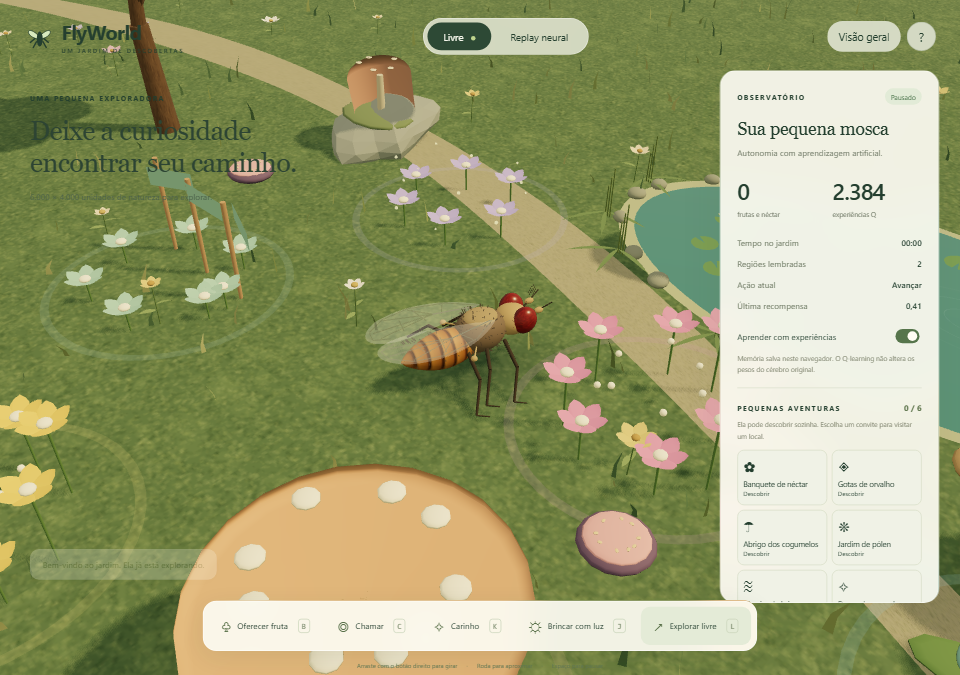
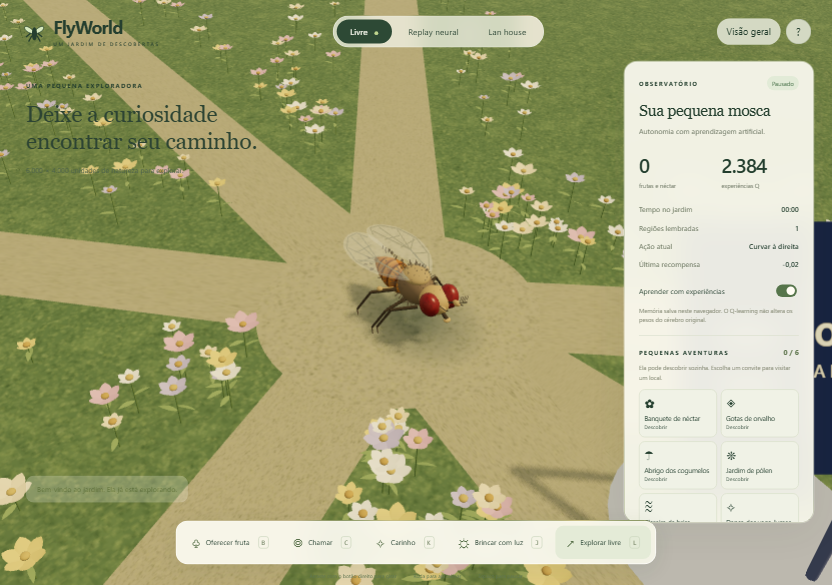
docs(lanhouse): publicar guias, imagens e evidências de aprendizagem

diff --git a/docs/superpowers/plans/2026-10-22-jardim-lanhouse-pong.md b/docs/superpowers/plans/2026-10-22-jardim-lanhouse-pong.md
@@ -1,0 +1,69 @@
+# Jardim e lan house — Implementation Plan
+
+> For agentic workers: use superpowers:executing-plans task by task. Execução nativa nesta sessão, conforme autorização do usuário.
+
+**Goal:** Publicar o jardim reorganizado e uma lan house com Pong demonstrável, treinável e avaliável.
+**Architecture:** Layout determinístico compartilhado; motor/agente/avaliação Pong puros; duas cenas no mesmo renderizador; integração UI isolada em um controlador da lan house.
+**Tech Stack:** Three.js, JavaScript ESM, Vite, Node test, Playwright, Vercel.
+**Spec:** ../specs/2026-10-22-jardim-lanhouse-pong-design.md
+
+## Global Constraints
+Mundo 6000 × 4000; seis estações com distância mínima 600; jogo de uma raquete contra parede, episódios de 30 segundos; recompensa +1 por devolução, -1 por perda. Avaliação de 100 episódios por política, sem explorar ou modificar pesos. Memória Pong independente e versionada; não alterar Brian2 ou replay. Um renderizador, um RAF; treino parado em aba oculta e no jardim.
+
+## Review Focus
+- Memória antiga: preservar Q e descobertas, invalidar coordenadas incompatíveis (tarefa 1).
+- Colisão rápida: subpassos impedem atravessar a raquete (tarefa 2).
+- Avaliação cancelada: sem resultados completos falsos ou mutação da política (tarefa 3).
+- Teclas/touch ao trocar mapas: limpar entrada e pausar treino (tarefa 4).
+- Falha de armazenamento: sessão continua e exportação permanece disponível (tarefa 4).
+
+### Task 1 — Layout e mosca
+Files: src/layout.js, layout.test.js, experiences.js, scenery.js, garden.js, fly-model.js, main.js.
+Interfaces: createLayout() -> world com regions, paths, sites, spawn, portal; pathDistance(world,x,z); migrateGardenMemory(memory,version).
+- [x] Testar seis estações seguras, separação >=600, rotas desde spawn e migração preservando Q.
+- [x] Implementar layout com corredores livres, bosques e grupos de comida; física/render/mapa usam os mesmos caminhos.
+- [x] Refinar postura e proporções; preservar seis pernas e duas asas.
+- [x] Rodar npm test e commit.
+
+### Task 2 — Pong e aprendizagem
+Files: src/pong.js, pong.test.js.
+Interfaces: Pong(seed).step(action,dt) -> eventos/reward/done; PongAgent(memory).act(game,{explore,rng}), demonstrate(state,action), update(...), snapshot().
+- [x] Testar rebotes, perdas, limite 30s, demonstrações, Q updates e memória inválida.
+- [x] Implementar passo fixo, três ações, estados discretizados sem previsão futura e preferência demonstrada apenas onde não há Q treinado.
+- [x] Rodar npm test e commit.
+
+### Task 3 — Avaliação reproduzível
+Files: src/pong-evaluation.js, pong.test.js.
+Interfaces: Evaluation(agent,100).advance(budget), cancel(), result.
+- [x] Testar saques iguais, 100 episódios de cada política, cancelamento e checkpoint inalterado.
+- [x] Implementar avaliação incremental, aleatória e política congelada; médias de devoluções/duração e conclusão explícita.
+- [x] Medir política inicial e treinada, registrar resultados reais, sem promessa de melhoria.
+
+### Task 4 — Cena e controlador da lan house
+Files: src/lanhouse-scene.js, src/lanhouse.js, index.html, style.css, main.js, garden.js.
+Interfaces: LanHouse(garden).tick(dt), render(time), setActive(bool), snapshot(), resize().
+- [x] Montar sala 3D e monitor com canvas compartilhado com a tela ampliada; mesma mosca e renderizador.
+- [x] Integrar demonstrar, treinar, acelerar, avaliar/cancelar, pausa, teclado/toque, exportar e reset confirmado.
+- [x] Preservar sessão do jardim e desligar controles ao trocar; falha localStorage tratada.
+- [x] Testar navegador: transições, ausência de treino oculto, replay, mobile, reload e erros de renderização.
+
+### Task 5 — Revisão e publicação
+Files: testes de navegação, docs, README, evidências.
+- [x] npm test, npm run build, inspeção de imagens desktop/mobile e auditoria da especificação.
+- [x] Registrar resultados de treinamento e instruções.
+- [ ] Commits personalizados, push GitHub, deploy Vercel, verificar URL pública e estado remoto.
+
+## Ledger de execução
+
+- Execução nativa autorizada pelo usuário; revisão final independente somente leitura realizada pelo agente review_lanhouse.
+- Tarefas 1–3: testes de layout e motor/agente/avaliação passaram; treino reproduzível de 15.000 episódios registrado em docs/PONG_EVALUATION.json.
+- Ruling: sementes pares para treino/demonstração e ímpares para avaliação — impede cruzamento em treino prolongado; relatório foi reexecutado nessa configuração.
+- Revisão encontrou e corrigiu: Espaço em botões, validação espacial, expiração de convite, reserva de saques e totais de treino no painel.
+- Testes de robustez passaram: armazenamento inválido e indisponível, exportação, foco de teclado, aba oculta simulada, troca com treino ativo, ajuda e cancelamento.
+- Ruling: o jardim conserva uma clareira inicial, com flores ao longo das rotas, mantendo as experiências espalhadas; a brisa aproxima a mosca do centro antes de aplicar deslocamento para não impedir a descoberta.
+- Tarefa 4: teste completo da lan house passou com demonstração real por toque, treino, avaliação sem mutação, sessão preservada e replay.
+- Tarefa 5: regressão das seis experiências concluída; aguardando somente a verificação final da publicação.
+
+- Regressão completa adventures-smoke.mjs passou com seis descobertas, entrega, persistência, replay e mobile. Otimização de tiles de 600 unidades revisada independentemente; liberação dos buffers preserva geometria compartilhada.
+
+- Última validação local: 23 testes unitários, build Vite, lanhouse-smoke (inclusive clique real no acesso 3D via visão geral), lanhouse-robustness (incluindo confirmação de reinício) e adventures-smoke passaram. Imagens de computador e celular inspecionadas.

diff --git a/docs/LANHOUSE_PONG.md b/docs/LANHOUSE_PONG.md
@@ -1,0 +1,36 @@
+# Lan da Mosca: ensinar Pong
+
+Na versão web, selecione **Lan house** no topo ou clique no acesso sinalizado na clareira inicial. A sala usa o mesmo renderizador e o mesmo modelo da mosca do jardim. O monitor 3D e o painel ampliado mostram a mesma partida.
+
+## Demonstrar
+
+Clique **1 · Demonstrar**. Use as setas para cima/baixo ou mantenha os botões de toque pressionados. Cada decisão registra o estado observado e sua ação. Esses exemplos orientam estados ainda não aprendidos; não contam como atualizações por recompensa. Espaço pausa quando o foco estiver no cenário.
+
+## Treinar
+
+Clique **2 · Treinar**. A mosca controla a raquete usando Q-learning e exploração. Cada devolução rende +1, cada perda −1. As partidas terminam ao perder a bola ou após 30 segundos, sem bônus pelo limite de tempo. O seletor acelera a simulação, limitado pelo orçamento de trabalho do navegador; “até 1000×” não garante essa velocidade em todos os aparelhos.
+
+O painel mostra partidas, exemplos, atualizações Q, totais de devoluções e perdas, média das últimas 100 partidas e histórico. Trocar para o jardim, ocultar a aba, pausar ou abrir a ajuda interrompe os passos de jogo/treino.
+
+## Avaliar
+
+Clique **3 · Avaliar sem aprender**. A política fica congelada e sem exploração e é comparada a ações aleatórias: 100 episódios de cada política, com os mesmos saques. Os saques de avaliação usam sementes ímpares reservadas; treino e demonstrações usam sementes pares. É possível cancelar, sem apresentar a parte executada como avaliação completa.
+
+A avaliação não atualiza Q, demonstrações ou estatísticas de treino. O texto mostra as devoluções e o tempo médio realmente medidos; não garante que qualquer agente supere a referência após um número fixo de partidas.
+
+## Memória
+
+A chave de armazenamento Pong é `flyworld-pong-v1`, separada do jardim. Use **Exportar memória Pong** para obter o checkpoint. **Reiniciar Pong** exige confirmação e não apaga o jardim. Memórias inválidas são ignoradas; se o armazenamento falhar, a sessão continua e a exportação fica disponível.
+
+A troca entre mapas preserva a posição e a sessão do jardim. A memória espacial do jardim anterior é renovada na migração do layout; a política, os contadores e as descobertas são preservados.
+
+## Experimento reproduzível
+
+```powershell
+cd web
+node benchmark-pong.mjs
+```
+
+O script começa com uma política nova, treina 15.000 episódios (semente base 17) e compara antes/depois com a mesma sequência reservada de 100 saques. O resultado completo está em [PONG_EVALUATION.json](PONG_EVALUATION.json). Na execução registrada: política treinada **2,36 devoluções por episódio**, referência aleatória **0,39**, sem demonstrações humanas. A política inicial marcou 0,40; essa diferença pequena isolada não constitui evidência de aprendizagem. O ganho observado após treino é deste experimento, não uma garantia para toda sessão.
+
+Nenhum checkpoint treinado é instalado silenciosamente no navegador: a memória nova de Pong começa sem aprendizagem específica. Esta é uma habilidade de um agente artificial; Brian2 e o conectoma biológico não controlam o Pong nesta versão.

diff --git a/README.md b/README.md
@@ -52,9 +52,25 @@ Na versão web:
 
 A memória pertence ao navegador utilizado. Limpar os dados do site remove esse progresso; use **Exportar memória**, na janela de informações, para guardar uma cópia.
 
+## 🖥 Lan da Mosca — ensine uma nova habilidade
+
+Selecione **Lan house** no topo para visitar uma sala 3D separada, com a mosca diante de um computador jogando Pong. O jardim fica preservado enquanto você estiver lá.
+
+1. **Demonstrar:** você controla a raquete com as setas ou botões de toque; seus exemplos são registrados.
+2. **Treinar:** a mosca escolhe ações e aprende por recompensa. É possível acelerar e acompanhar as estatísticas.
+3. **Avaliar:** compare a política congelada com ações aleatórias, em 100 episódios por política e com os mesmos saques reservados.
+
+A memória de Pong é independente e exportável. O jogo é de uma raquete contra a parede, com episódios de até 30 segundos. No [experimento registrado](docs/PONG_EVALUATION.json), 15 mil partidas de treino levaram a 2,36 devoluções por episódio, contra 0,39 da referência aleatória. Sua sessão começa sem esse treino: o resultado depende das experiências e demonstrações.
+
+[Como ensinar, treinar e avaliar](docs/LANHOUSE_PONG.md)
+
+![Lan da Mosca com a partida no monitor e no painel](docs/images/lanhouse.png)
+
 ## 🦋 Seis pequenas aventuras no jardim
 
 Encontre **flores com néctar, gotas de orvalho, abrigo de cogumelos, pólen, uma clareira com brisa e vaga-lumes**. Cada local tem objetos próprios e uma experiência que aparece no diário de descobertas.
+
+As experiências agora ficam em regiões distintas, conectadas por caminhos: campo de flores, margem do lago, bosque, jardim de pólen, clareira e recanto dos vaga-lumes. Frutas aparecem em grupos e as árvores formam bosques.
 
 A mosca pode encontrar esses locais ao explorar. Abra **Pequenas aventuras** no painel para convidá-la a visitar um deles. Colete pólen e depois visite o néctar para completar uma entrega; o pólen aparece no corpo da mosca durante o caminho.
 
@@ -125,7 +141,7 @@ npm test
 npm run build
 ```
 
-A validação desta versão passou em **33 testes Python e 11 testes web**, além do build de produção e da navegação automatizada em tamanhos de tela de computador e celular. Veja os [detalhes da publicação](docs/DEPLOY_VERCEL.md).
+A validação desta versão passou em **33 testes Python na versão local e 23 testes web**, além do build de produção e da navegação automatizada em tamanhos de tela de computador e celular. Veja os [detalhes da publicação](docs/DEPLOY_VERCEL.md).
 
 ## 📚 Para explorar o projeto
 
@@ -134,6 +150,7 @@ A validação desta versão passou em **33 testes Python e 11 testes web**, alé
 - [Jardim e interações](docs/JARDIM_INTERACOES.md)
 - [Autonomia e aprendizagem](docs/MODO_LIVRE_APRENDIZAGEM.md)
 - [Biblioteca e gravações neurais](docs/BIBLIOTECA_NEURAL.md)
+- [Lan house e aprendizagem de Pong](docs/LANHOUSE_PONG.md)
 - [Publicação na Vercel](docs/DEPLOY_VERCEL.md)
 - [Documentação científica original](README_UPSTREAM.md)
 

diff --git a/docs/LANHOUSE_VALIDACAO.md b/docs/LANHOUSE_VALIDACAO.md
@@ -1,0 +1,38 @@
+# Validação — jardim e lan house
+
+## Evidências por requisito da especificação
+
+| Requisito | Evidência |
+| --- | --- |
+| Seis áreas separadas e seguras | layout.test.js verifica distância mínima de 600 unidades, colisões e rotas desde a clareira. |
+| Caminhos compartilhados | layout.js fornece os mesmos pontos usados por scenery.js e drawMap em main.js. world.json é gerado dessa definição. |
+| Memória espacial antiga | testes de migração preservam Q/contadores/descobertas e descartam apenas coordenadas incompatíveis; testes de corrupção rejeitam coordenadas e contagens inválidas. |
+| Mosca nas duas cenas | mesmo objeto fly e sombra migram entre cenas, com pose de teclado; seis pernas e duas asas preservadas. Imagens de navegador em test-results são inspecionadas. |
+| Uma sessão/renderizador | lanhouse-smoke.mjs verifica um canvas WebGL e restauração exata da posição/tempo do jardim pausado após visitar a sala. |
+| Demonstração humana | teste de teclado e toque real pelo protocolo do navegador verifica deslocamento e exemplos sem atualizações Q. |
+| Treino independente | testes do agente e navegador mostram atualizações Q e partidas; memória Pong separada, sem modificar Q do jardim. |
+| Avaliação reproduzível | testes verificam 100 episódios por política, saques iguais e checkpoint original inalterado. Treino usa sementes pares; avaliação usa ímpares. |
+| Aprendizagem medida | benchmark-pong.mjs, 15.000 episódios, resultado em PONG_EVALUATION.json: 2,36 devoluções da política treinada e 0,39 da referência. |
+| Cancelamento | teste puro e teste de UI cancelam sem resultado final nem alteração de pesos. |
+| Pausa e isolamento | navegador testa saída durante treino ativo, ocultação simulada e diálogo; passos param e teclas são limpas. |
+| Persistência e falhas | navegador testa recarga, arquivos inválidos, quota bloqueada e exportação disponível. |
+| Regressão do jardim | testes unitários existentes passam; brisa testada em oito direções de chegada. O teste completo das experiências percorre os destinos. |
+| Publicação | conferir commit remoto e URL pública após o deploy; registro final no ledger do plano. |
+
+23 testes unitários e os cenários completos de navegação passaram. A revisão independente confirmou as correções de memória, foco, convites, saques reservados e limpeza de buffers.
+
+## Comandos
+
+```powershell
+cd web
+npm test
+npm run build
+node benchmark-pong.mjs
+npm run dev
+# Outro terminal, mesma pasta:
+node lanhouse-smoke.mjs
+node lanhouse-robustness.mjs
+node adventures-smoke.mjs
+```
+
+Testes de navegador usam Playwright Chromium (`npx playwright install chromium`). Resolução reduzida no navegador automatizado permite validar WebGL por software; não constitui benchmark de FPS em aparelhos reais. A avaliação descreve uma amostra controlada, não uma promessa de capacidade biológica ou desempenho garantido em toda sessão.

diff --git a/docs/superpowers/specs/2026-10-22-jardim-lanhouse-pong-design.md b/docs/superpowers/specs/2026-10-22-jardim-lanhouse-pong-design.md
@@ -1,11 +1,11 @@
 # FlyWorld: jardim reorganizado e lan house com Pong
 
 Data: 2026-10-22
-Status: desenho proposto, aguardando revisão do usuário.
+Status: desenho aprovado e implementado; validação local concluída, publicação em andamento.
 
 ## Objetivo e escopo aprovado em conversa
 
-Melhorar o desenho da mosca e a distribuição dos elementos pelo jardim e acrescentar uma lan house em um mapa separado, onde o usuário possa ensinar Pong à mosca e observar sua aprendizagem. A conversa aprovou Pong como primeiro jogo. Esta especificação detalha a implementação proposta para revisão; nenhum código de produto foi alterado nesta etapa.
+Melhorar o desenho da mosca e a distribuição dos elementos pelo jardim e acrescentar uma lan house em um mapa separado, onde o usuário possa ensinar Pong à mosca e observar sua aprendizagem. A conversa aprovou Pong como primeiro jogo. Esta especificação registra o desenho aprovado para a implementação.
 
 A entrega será na versão web existente, mantendo publicação na Vercel e código no GitHub. O aplicativo Python e os dados neurais originais ficam fora desta mudança.
 
@@ -87,4 +87,4 @@ Nenhuma funcionalidade desta entrega simula plasticidade do conectoma ou transfo
 
 Escopo restrito a dois mapas e um jogo. Não inclui jogos adicionais, multiplayer ou treinamento biológico. Modos de partida, ações, recompensas, saques, persistência e critérios de avaliação estão definidos. A promessa de resultado é implementar e medir o treinamento, e não afirmar antecipadamente que o agente já aprendeu.
 
-Próxima etapa: revisão do usuário; depois, plano de implementação com a skill writing-plans e escolha do método de execução, antes de modificar o produto.
+Implementação executada pelo plano correspondente, com revisão independente e evidências em docs/LANHOUSE_VALIDACAO.md.
